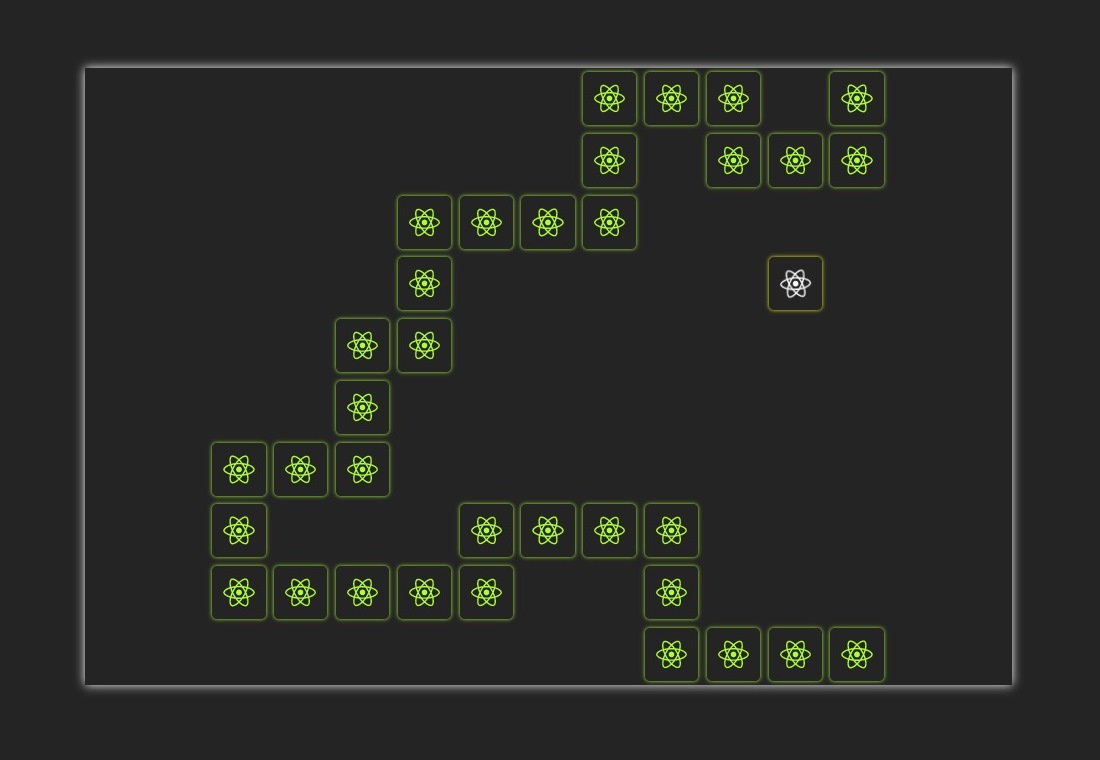
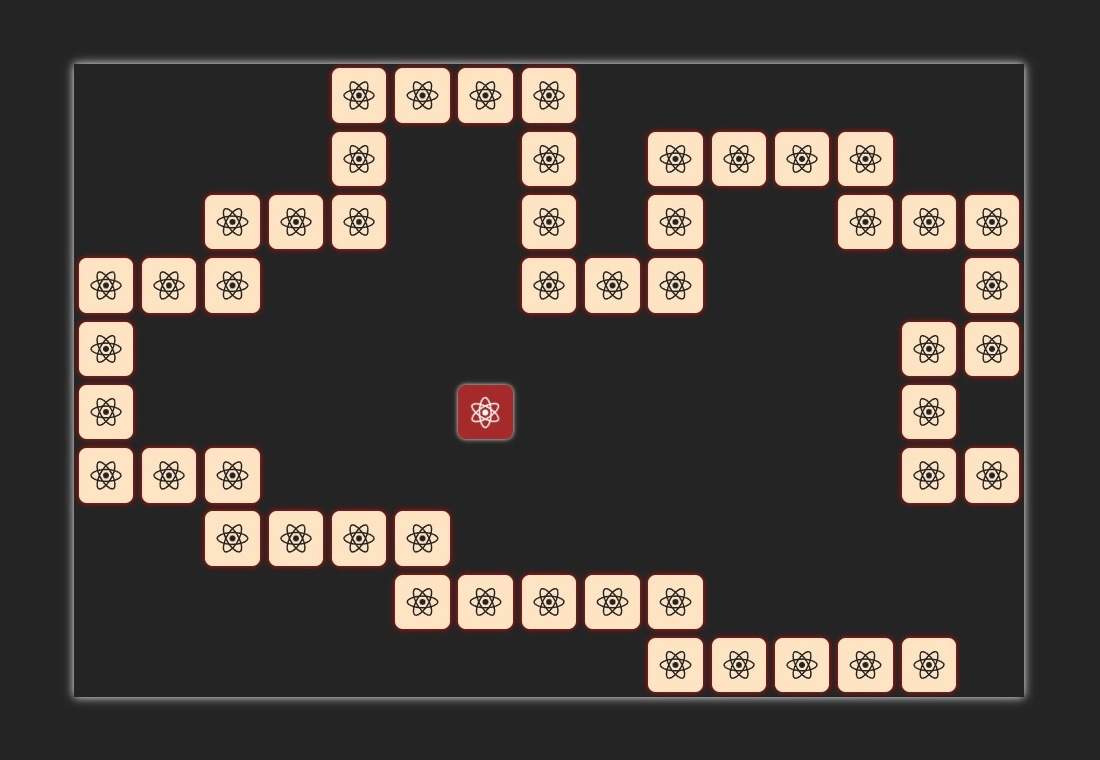
New colour scheme

Changed region(s): [[0.0618, 0.0605, 0.9582, 0.9382], [0.4018, 0.4842, 0.4945, 0.6053], [0.68, 0.3329, 0.7418, 0.4237]]

diff --git a/src/App.css b/src/App.css
@@ -1,6 +1,6 @@
 /*****************************************/
 /*   Simple Snake Styles by PapaProger   */
-/*        version 1.0, 28.04.2022        */
+/*        version 1.1, 30.04.2022        */
 /*****************************************/
 
 html {
@@ -19,8 +19,8 @@ html {
 }
 
 .game-area {
-  width: 100vmin;
-  height: 66.6vmin; /* устанавливать программно */
+  width: 98vmin;
+  height: 65.33vmin; /* устанавливать программно */
 
   box-shadow: 0px 0px 1vmin 0 white;
   cursor: pointer;
@@ -47,7 +47,16 @@ html {
   height: 86%;
   margin: 7%;
 
-  border-radius: 0.5vmin;
+  border-radius: 0.8vmin;
+}
+
+.snake-cell {
+  background-color: bisque;
+  transition: all 0.5s ease-in-out;
+}
+
+.stone {
+  background-color: brown;
 }
 
 .logo1, .logo2 {
@@ -74,20 +83,14 @@ html {
 
 @media only screen and (min-height: 400px) {
   .snake-cell {
-    box-shadow: 0px 0px 0.5vmin 0 greenyellow;
+    box-shadow: 0px 0px 0.5vmin 0 red;
   }
   .stone {
-    box-shadow: 0px 0px 0.5vmin 0 yellow;
+    box-shadow: 0px 0px 0.5vmin 0 whitesmoke;
   }
 }
 
 @media only screen and (max-height: 400px) {
-  .snake-cell {
-    background-color: darkolivegreen;
-  }
-  .stone {
-    background-color: darkkhaki;
-  }
   .logo1, .logo2 {
     display: none;
   }
